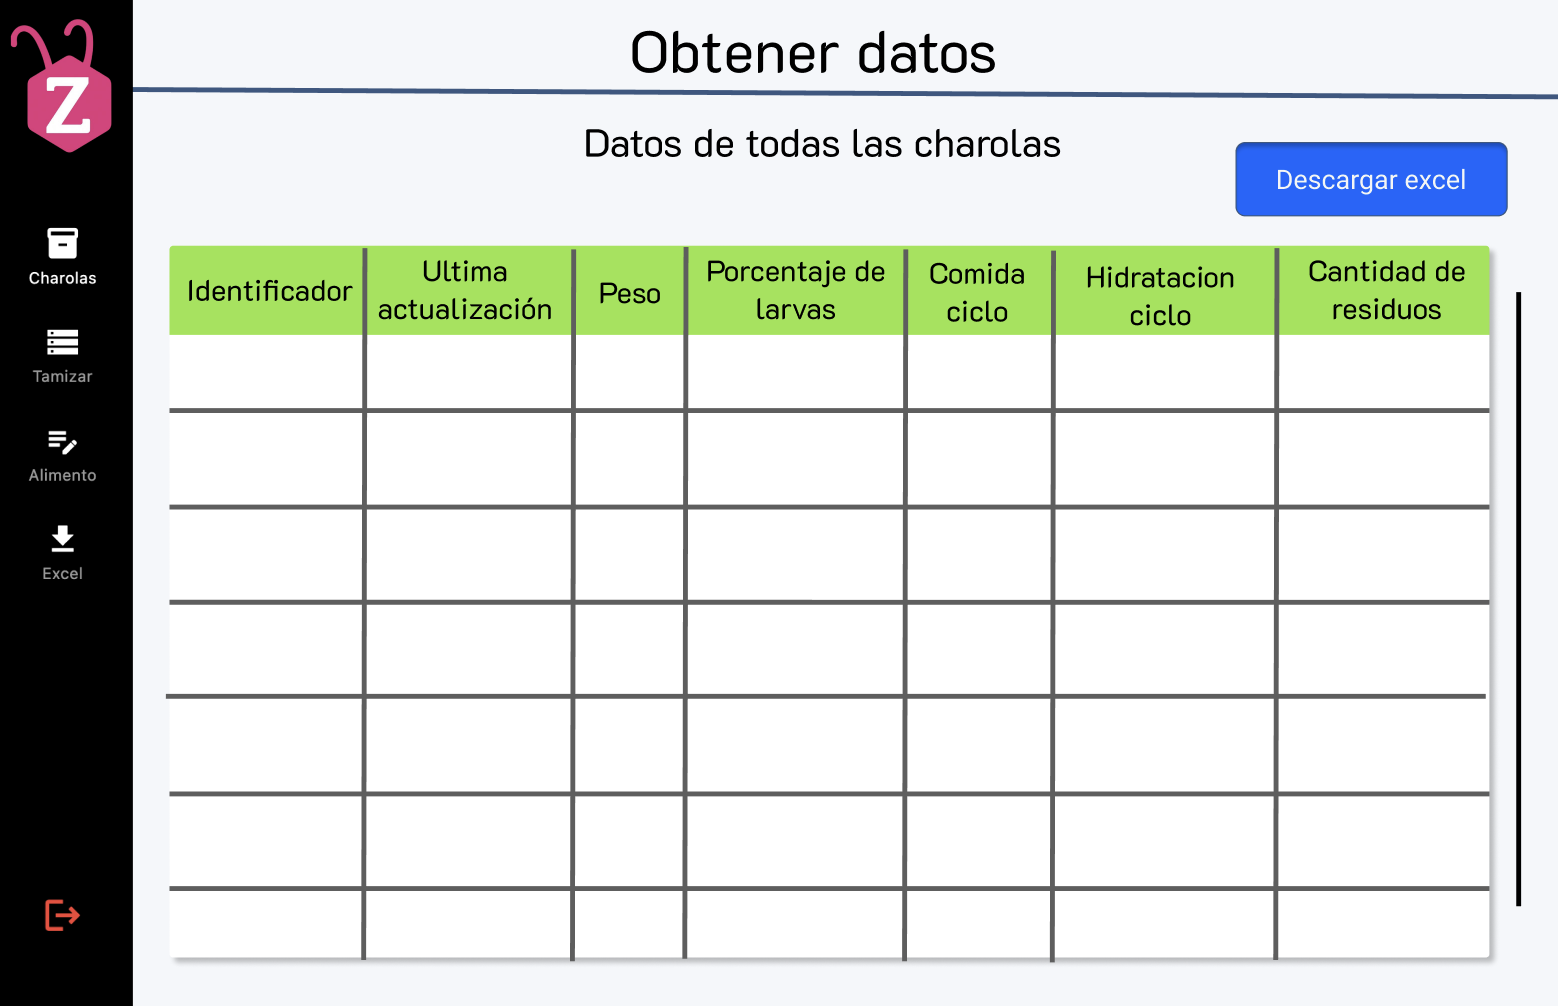
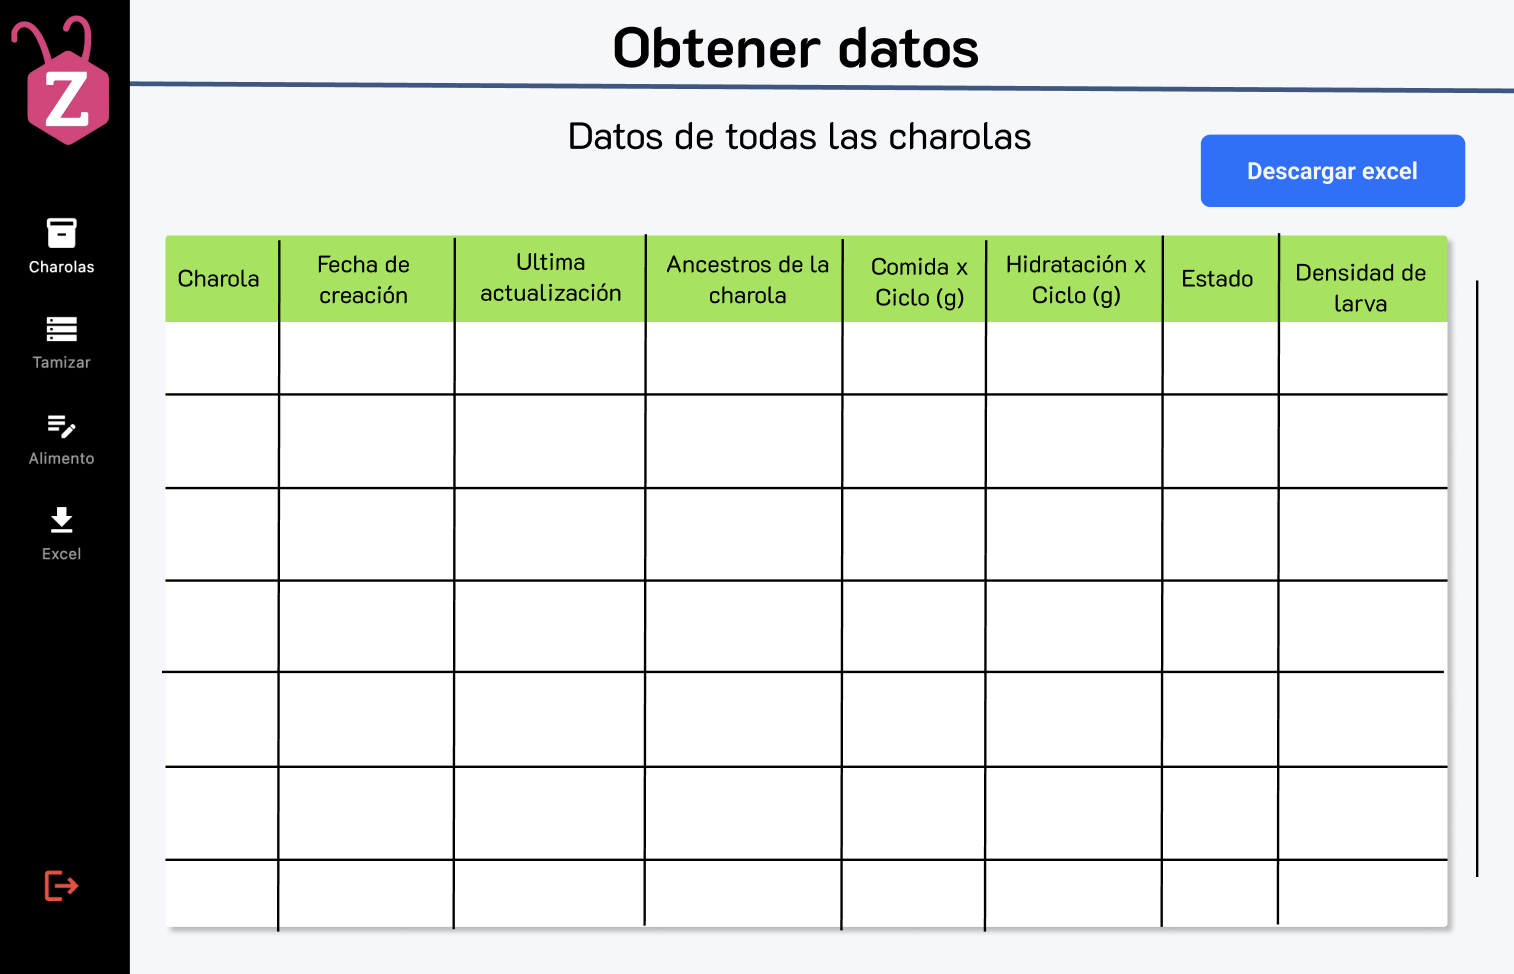
Subir mockups

diff --git a/documentation/docs/proyectos/larvas/documentacion/requisitos/RF23.md b/documentation/docs/proyectos/larvas/documentacion/requisitos/RF23.md
@@ -429,8 +429,8 @@ sequenceDiagram
 
 ### Mockup
 
-![alt text](<img/mockupRF26.png>)
-![alt text](<img/mockup2RF26.png>)
+![alt text](<img/mockup2RF23.png>)
+![alt text](<img/mockupRF23.png>)
 
 
 ---

diff --git a/documentation/docs/proyectos/larvas/documentacion/requisitos/RF36.md b/documentation/docs/proyectos/larvas/documentacion/requisitos/RF36.md
@@ -142,7 +142,7 @@ sequenceDiagram
 
 ### Mockup
 
-## ![mockup-registrar-hidratacion](mockup-registrar-hidratacion.png)
+![alt text](<img/mockup2RF23.png>)
 
 # Historial de cambios
 

diff --git a/documentation/docs/proyectos/larvas/documentacion/requisitos/RF24.md b/documentation/docs/proyectos/larvas/documentacion/requisitos/RF24.md
@@ -224,8 +224,7 @@ sequenceDiagram
 ### Mockup
 
 
-![alt text](<img/mockupRF24_2.png>)
-
+![alt text](<img/mockup2RF23.png>)
 ![alt text](<img/mockupRF24.png>)
 
 ---

diff --git a/documentation/docs/proyectos/larvas/documentacion/requisitos/RF25.md b/documentation/docs/proyectos/larvas/documentacion/requisitos/RF25.md
@@ -210,7 +210,7 @@ sequenceDiagram
 
 ### Mockup
 
-![alt text](<img/mockupRF25_2.png>)
+![alt text](<img/mockup2RF23.png>)
 
 ![alt text](<img/mockupRF25.png>)
 

diff --git a/documentation/docs/proyectos/larvas/documentacion/requisitos/RF34.md b/documentation/docs/proyectos/larvas/documentacion/requisitos/RF34.md
@@ -69,7 +69,7 @@ sequenceDiagram
 
 ### Mockup
 
-![alt text](../mockupRF34.png)
+![alt text](<img/mockup2RF34.png>)
 
 ---
 # Historial de cambios
